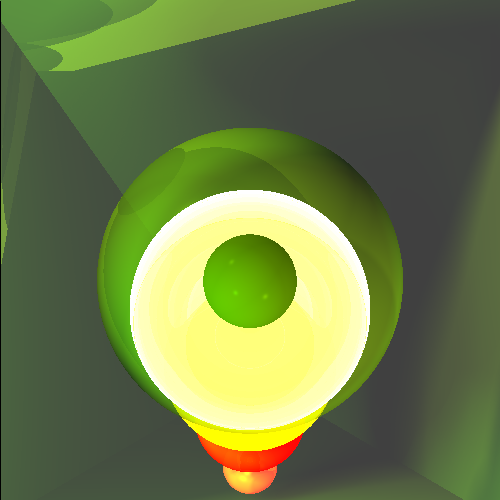
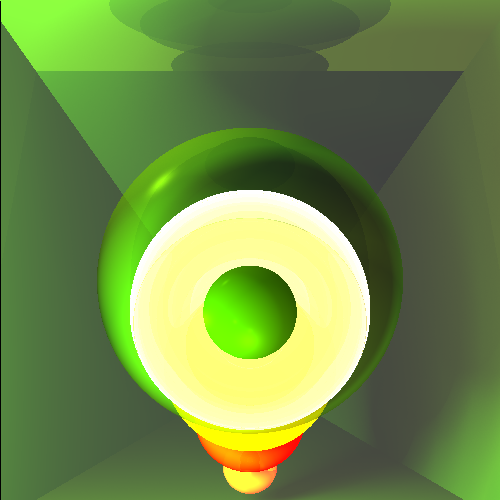
try

diff --git a/src/unittests/MiniProject.java b/src/unittests/MiniProject.java
@@ -12,6 +12,7 @@ import elements.Camera;
 import elements.DirectionalLight;
 import elements.PointLight;
 import elements.SpotLight;
+import geometries.Geometries;
 import geometries.Geometry;
 import geometries.Plane;
 import geometries.Polygon;
@@ -116,44 +117,49 @@ public class MiniProject {
 				.setViewPlaneDistance(1000);
 
 		scene.geometries.add( //
-				new Sphere(new Point3D(0, -10, -90), 50) //
-				 		.setEmmission(new Color(java.awt.Color.BLACK)) //
+				new Geometries(new Sphere(new Point3D(0, -10, -90), 50) //
+						.setEmmission(new Color(java.awt.Color.BLACK)) //
 						.setMaterial(new Material().setKD(0.5).setKS(0.5).setnShininess(100).setkT(0.6)), //
-				new Sphere(new Point3D(0, -20, -110), 40) //
-						.setEmmission(new Color(java.awt.Color.PINK)) //
-						.setMaterial(new Material().setKD(0.5).setKS(0.5).setnShininess(100).setkT(0.5).setkR(1)), //
-				new Sphere(new Point3D(0, -40, -160), 30) //
-						.setEmmission(new Color(java.awt.Color.ORANGE)) //
-						.setMaterial(new Material().setKD(0.5).setKS(0.5).setnShininess(100).setkT(0.4)), //
-				new Sphere(new Point3D(0, -60, -200), 20) //
+						new Sphere(new Point3D(0, -20, -110), 40) //
+								.setEmmission(new Color(java.awt.Color.PINK)) //
+								.setMaterial(new Material().setKD(0.5).setKS(0.5).setnShininess(100)//
+										.setkT(0.5).setkR(1)), //
+						new Sphere(new Point3D(0, -40, -160), 30) //
+								.setEmmission(new Color(java.awt.Color.ORANGE)) //
+								.setMaterial(new Material().setKD(0.5).setKS(0.5).setnShininess(100).setkT(0.4)), //
+						new Sphere(new Point3D(0, -20, -70), 15) //
+								.setEmmission(new Color(java.awt.Color.BLACK)) //
+								.setMaterial(new Material().setKD(0.5).setKS(0.5).setnShininess(200))),
+				new Geometries(new Sphere(new Point3D(0, -60, -200), 20) //
 						.setEmmission(new Color(java.awt.Color.RED)) //
 						.setMaterial(new Material().setKD(0.5).setKS(0.5).setnShininess(100).setkT(0.3)), //
-				new Sphere(new Point3D(0, -80, -230), 10) //
-						.setEmmission(new Color(java.awt.Color.RED)) //
-						.setMaterial(new Material().setKD(0.5).setKS(0.5).setnShininess(100).setkR(1)), //
-				new Sphere(new Point3D(0, -20, -70), 15) //
-						.setEmmission(new Color(java.awt.Color.BLACK)) //
-						.setMaterial(new Material().setKD(0.5).setKS(0.5).setnShininess(200)), //
-				new Triangle(new Point3D(100, 100, -120), new Point3D(100, -100, -110), new Point3D(0, -75, -1000))//
-						.setEmmission(new Color(java.awt.Color.DARK_GRAY))//
-						.setMaterial(new Material().setKD(0.5).setKS(0.5).setnShininess(30)), //
-				new Triangle(new Point3D(100, 100, -120), new Point3D(-100, 100, -120), new Point3D(0, -75, -1000))//
-						.setEmmission(new Color(java.awt.Color.DARK_GRAY))//
-						.setMaterial(new Material().setKD(0.5).setKS(0.5).setnShininess(30).setkT(0.3)), //
-				new Triangle(new Point3D(100, -100, -110), new Point3D(-100, -100, -110), new Point3D(0, -75, -1000))//
-						.setEmmission(new Color(java.awt.Color.DARK_GRAY))//
-						.setMaterial(new Material().setKD(0.5).setKS(0.5).setnShininess(30)), //
-				new Triangle(new Point3D(-100, -100, -110), new Point3D(-100, 100, -120), new Point3D(0, -75, -1000))//
-						.setEmmission(new Color(java.awt.Color.DARK_GRAY))//
-						.setMaterial(new Material().setKD(0.5).setKS(0.5).setnShininess(30)) //
+						new Sphere(new Point3D(0, -80, -230), 10) //
+								.setEmmission(new Color(java.awt.Color.RED)) //
+								.setMaterial(new Material().setKD(0.5).setKS(0.5).setnShininess(100).setkR(1))), //
+				new Geometries(
+						new Triangle(new Point3D(100, 100, -120), new Point3D(100, -100, -110),
+								new Point3D(0, -75, -1000))//
+										.setEmmission(new Color(java.awt.Color.DARK_GRAY))//
+										.setMaterial(new Material().setKD(0.5).setKS(0.5).setnShininess(30)), //
+						new Triangle(new Point3D(100, 100, -120), new Point3D(-100, 100, -120),
+								new Point3D(0, -75, -1000))//
+										.setEmmission(new Color(java.awt.Color.DARK_GRAY))//
+										.setMaterial(new Material().setKD(0.5).setKS(0.5).setnShininess(30).setkT(0.3)), //
+						new Triangle(new Point3D(100, -100, -110), new Point3D(-100, -100, -110),
+								new Point3D(0, -75, -1000))//
+										.setEmmission(new Color(java.awt.Color.DARK_GRAY))//
+										.setMaterial(new Material().setKD(0.5).setKS(0.5).setnShininess(30)), //
+						new Triangle(new Point3D(-100, -100, -110), new Point3D(-100, 100, -120),
+								new Point3D(0, -75, -1000))//
+										.setEmmission(new Color(java.awt.Color.DARK_GRAY))//
+										.setMaterial(new Material().setKD(0.5).setKS(0.5).setnShininess(30))) //
 
 		);
 		scene.lights.add(new DirectionalLight(new Color(300, 400, 0).reduce(4), new Vector(0, 1, -1)));
-		scene.lights.add(
-				new PointLight(new Color(200, 300, 0), new Point3D(-100, 100, -120)).setKl(0.00001).setKq(0.0000099).setRadius(20).setBeamsNum(400));
+		scene.lights.add(new PointLight(new Color(200, 300, 0), new Point3D(-100, 100, -120)).setKl(0.00001)
+				.setKq(0.0000099).setRadius(20).setBeamsNum(400));
 		scene.lights.add(new SpotLight(new Color(150, 500, 0), new Point3D(-50, -50, 0), new Vector(1, 1, -10))
 				.setKl(0.0000001).setKq(0.0000000001).setRadius(20).setBeamsNum(400));
-
 
 		Render render = new Render() //
 				.setImageWriter(new ImageWriter(scene.name + "1", 500, 500)) //
